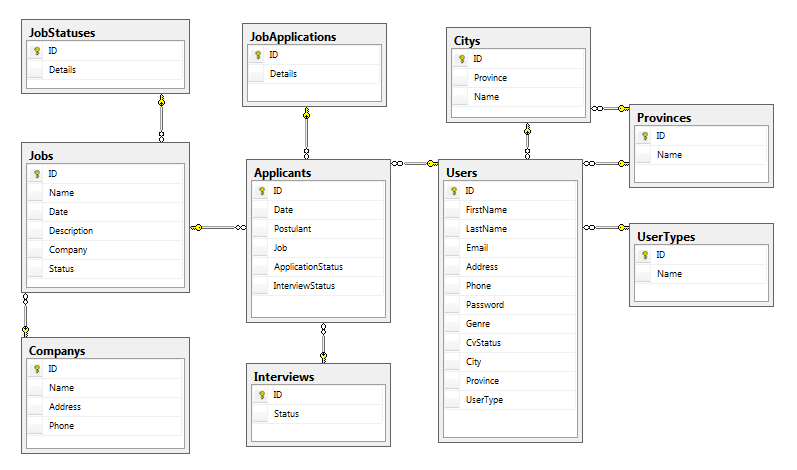
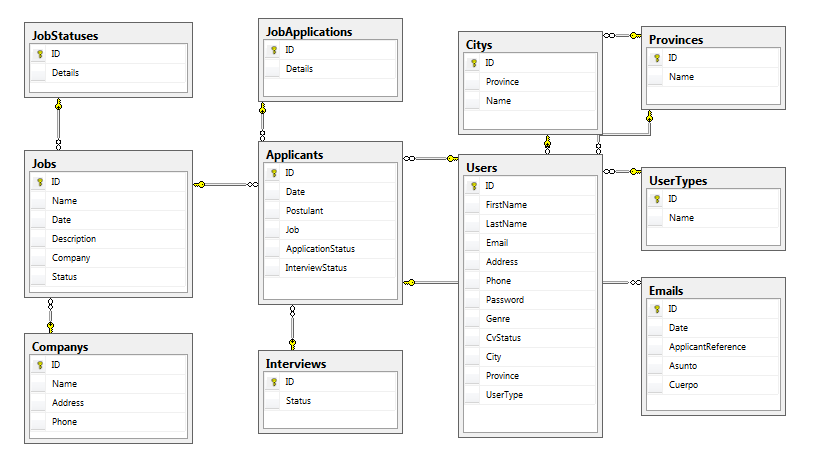
Se configuro el envio de mail por cada cambio de estado

Changed region(s): [[0.0301, 0.0298, 0.9636, 0.983]]

diff --git a/RRHH/Models/EmailsManager.cs b/RRHH/Models/EmailsManager.cs
@@ -1,0 +1,124 @@
+using System;
+using System.Collections.Generic;
+using System.Linq;
+using System.Web;
+using System.Net;
+using System.Net.Mail;
+using System.Data.SqlClient;
+
+namespace RRHH.Models
+{
+    public class EmailsManager
+    {
+        public void Insertar(Emails email)
+        {
+            string sqlquery = "INSERT INTO Emails (Date,ApplicantReference,Asunto,Cuerpo) VALUES (getdate(),@ApplicantReference,@Asunto,@Cuerpo)";
+            DataBase ConexionBD = new DataBase();
+            SqlCommand sentencia = ConexionBD.Conectar(sqlquery);
+            sentencia.Parameters.AddWithValue("@ApplicantReference", email.ApplicantReference.ID);
+            sentencia.Parameters.AddWithValue("@Asunto", email.Asunto);
+            sentencia.Parameters.AddWithValue("@Cuerpo", email.Cuerpo);
+            //5-Ejecutar!
+            sentencia.ExecuteNonQuery();
+
+            //CERRAR LA CONEXION AL TERMINAR!!!!
+            ConexionBD.Desconectar();
+        }
+
+        public string EmailCambioEstado(Applicants applicant)
+        {
+            string mensaje = "";
+            string cuerpo = "";
+            string asunto = "";
+            try
+            {
+                //Definimos la conexión al servidor SMTP que vamos a usar
+                //para mandar el mail. Hay que buscarla en nuestro proveedor
+                SmtpClient clienteSmtp = new SmtpClient("smtp.gmail.com", 587);
+                clienteSmtp.Credentials = new NetworkCredential("rrhh.proyecto.comit@gmail.com", "proyectoCom17");
+                clienteSmtp.EnableSsl = true;
+
+                //Defino el cuerpo del email dependiendo el estado de la aplicación del trabajo y el estado de la entrevista
+                if (applicant.ApplicationStatus.ID == 2)
+                {
+                    cuerpo = "Tu Cv ha sido leido";
+                }
+                if (applicant.ApplicationStatus.ID == 3)
+                {
+                    cuerpo = "Tu perfil ha sido seleccionado para una entrevista.";
+                    if (applicant.InterviewStatus.ID == 2)
+                    {
+                        cuerpo = cuerpo + " Ya se ha programado la entrevista";
+                    }
+                    if (applicant.InterviewStatus.ID == 3)
+                    {
+                        cuerpo = cuerpo + " El resultado de la entrevista ha sido positivo, nos contactaremos para indicarte como sigue el proceso";
+                    }
+                    if (applicant.InterviewStatus.ID == 4)
+                    {
+                        cuerpo = cuerpo + " Lo lamentamos pero tu perfil no continuara en la busqueda";
+                    }
+                    if (applicant.InterviewStatus.ID == 5)
+                    {
+                        cuerpo = cuerpo + " No has asistido a la entrevista";
+                    }
+                }
+                if (applicant.ApplicationStatus.ID == 4)
+                {
+                    cuerpo = "Tu perfil ha sido seleccionado para una entrevista con la empresa " + applicant.Job.Company.Name +".";
+                    if (applicant.InterviewStatus.ID == 2)
+                    {
+                        cuerpo = cuerpo + " Ya se ha programado la entrevista";
+                    }
+                    if (applicant.InterviewStatus.ID == 3)
+                    {
+                        cuerpo = cuerpo + " El resultado de la entrevista ha sido positivo, nos contactaremos para indicarte como sigue el proceso";
+                    }
+                    if (applicant.InterviewStatus.ID == 4)
+                    {
+                        cuerpo = cuerpo + " Lo lamentamos pero tu perfil no continuara en la busqueda";
+                    }
+                    if (applicant.InterviewStatus.ID == 5)
+                    {
+                        cuerpo = cuerpo + " No has asistido a la entrevista";
+                    }
+                }
+                if (applicant.ApplicationStatus.ID == 5)
+                {
+                    cuerpo = "Felicitaciones!!! Has sido contratado para " + applicant.Job.Name + ".";
+                }
+
+
+                //Generamos el objeto MAIL a enviar
+                MailMessage mailAEnviar = new MailMessage();
+                mailAEnviar.From = new MailAddress("rrhh.proyecto.comit@gmail.com", "RRHH Proyecto ComIT-2017");
+                mailAEnviar.To.Add(applicant.Postulant.Email);
+                asunto= "Avance proceso de selección";
+                mailAEnviar.Subject = asunto;
+                mailAEnviar.IsBodyHtml = true;
+                mailAEnviar.Body = "Hola " + applicant.Postulant.FirstName + " " + applicant.Postulant.LastName + ", <br />Te comentamos como avanza tu proceso de selección: <br />" + cuerpo + "<br /><br /><b>Saludos!!!<br />World Solution RRHH";
+
+                //mandamos el mail
+                clienteSmtp.Send(mailAEnviar);
+                //Si todo sale bien configuro una mensaje
+                mensaje = "Se ha enviado correctamente el informe del cambio estado al candidato mediante un e-mail.";
+            }
+            catch (Exception ex)
+            {
+                mensaje = "Lo sentimos, ha ocurrido un error al enviar el mail. Consulta al administrador";
+                string detalleError = ex.Message;   //guardo el error para ver que paso pero no lo muestro al usuario
+                                                    //mensaje = "ERROR: " + ex.Message;
+            }
+
+            Emails email = new Emails();
+            email.ApplicantReference = applicant;
+            email.Asunto = asunto;
+            email.Cuerpo = cuerpo;
+
+            EmailsManager eManager = new EmailsManager();
+            eManager.Insertar(email);
+
+            return mensaje;
+        }
+    }
+}

diff --git a/RRHH/Models/ApplicantsManager.cs b/RRHH/Models/ApplicantsManager.cs
@@ -102,5 +102,32 @@ namespace RRHH.Models
             //CERRAR LA CONEXION AL TERMINAR!!!!
             ConexionBD.Desconectar();
         }
+        public Applicants Consultar(int ID)
+        {
+            string sqlquery = "select * from Applicants WHERE ID=@ID";
+            DataBase ConexionBD = new DataBase();
+            SqlCommand sentencia = ConexionBD.Conectar(sqlquery);
+            sentencia.Parameters.AddWithValue("@ID", ID);
+
+            Applicants apply = new Applicants();
+            SqlDataReader reader = sentencia.ExecuteReader();
+            if (reader.Read()) //mientras haya un registro para leer
+            {
+                //creo la postulación, le completo los datos 
+                apply.ID = (int)reader["ID"];
+                apply.Date = (DateTime)reader["Date"];
+                apply.Job = new JobsManager().Consultar((int)reader["Job"]);
+                apply.Postulant = new UsersManager().Consultar((int)reader["Postulant"]);
+                apply.ApplicationStatus = new JobsApplicationsManager().Consultar((int)reader["ApplicationStatus"]);
+                apply.InterviewStatus = new InterviewsManager().Consultar((int)reader["InterviewStatus"]);
+            }
+
+            //CERRAR EL READER AL TERMINAR DE LEER LOS REGISTROS
+            reader.Close();
+            //CERRAR LA CONEXION AL TERMINAR!!!!
+            ConexionBD.Desconectar();
+
+            return apply;
+        }
     }
 }

diff --git a/RRHH/Controllers/ControlPanelController.cs b/RRHH/Controllers/ControlPanelController.cs
@@ -111,6 +111,12 @@ namespace RRHH.Controllers
         {
             ApplicantsManager applicantMod = new ApplicantsManager();
             applicantMod.ActualizarEstado(applicant_id, jobApp_id, interview_id);
+
+            Applicants apply = applicantMod.Consultar(applicant_id);
+            string respuestaEmail = new EmailsManager().EmailCambioEstado(apply);
+            ViewBag.respuestaEmail = respuestaEmail;
+            ViewBag.datosApply = apply;
+
             return View();
         }
     }

diff --git a/RRHH/Models/Emails.cs b/RRHH/Models/Emails.cs
@@ -1,0 +1,15 @@
+using System;
+using System.Collections.Generic;
+using System.Linq;
+using System.Web;
+
+namespace RRHH.Models
+{
+    public class Emails
+    {
+        public int ID { get; set; }
+        public string Asunto { get; set; }
+        public string Cuerpo { get; set; }
+        public Applicants ApplicantReference { get; set; }
+    }
+}
